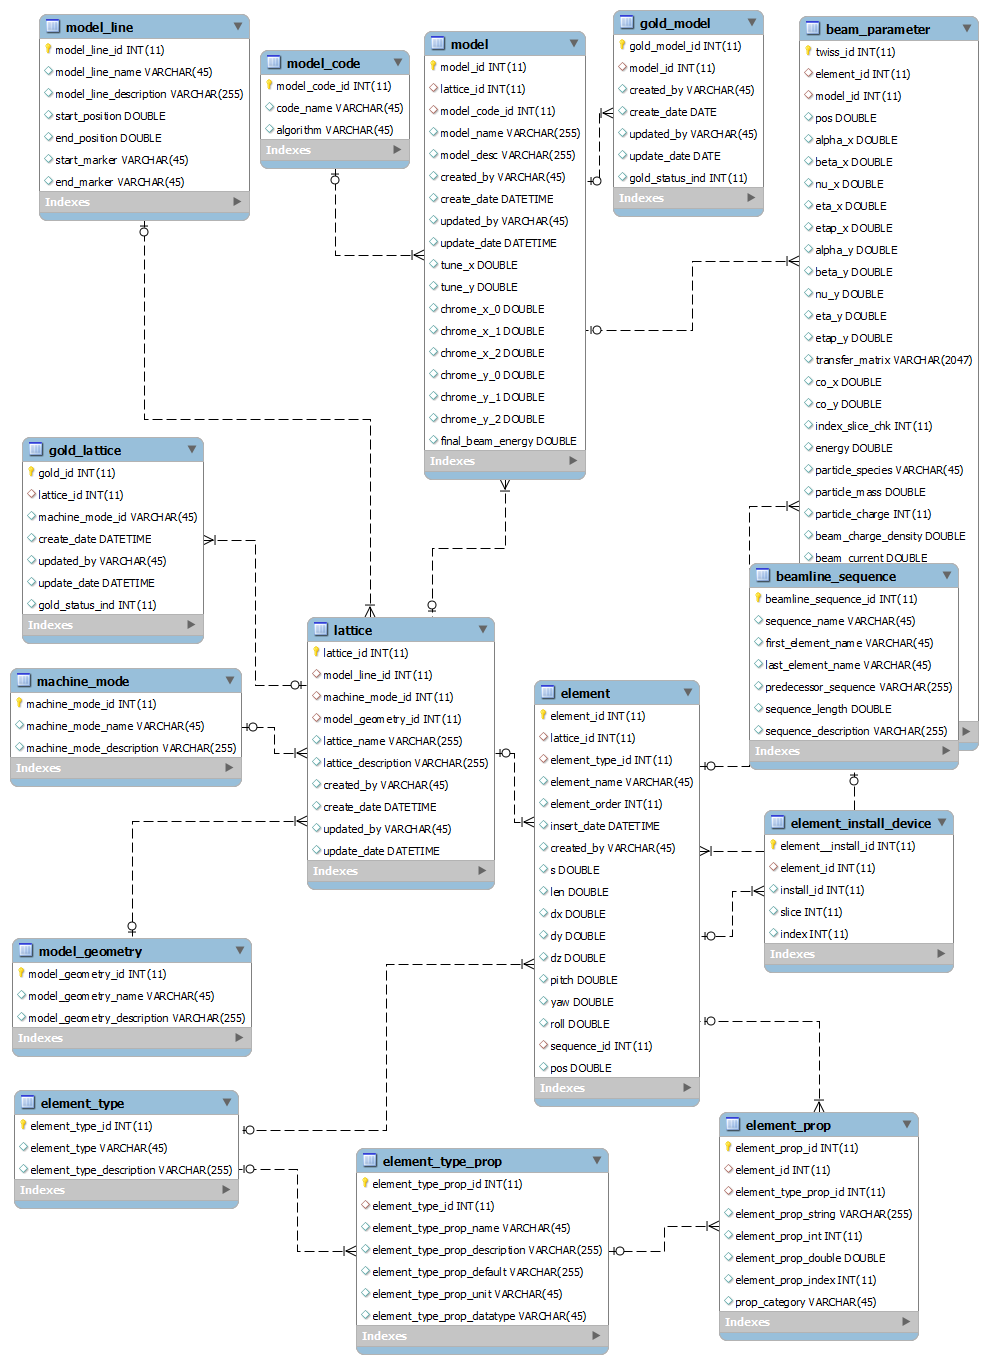
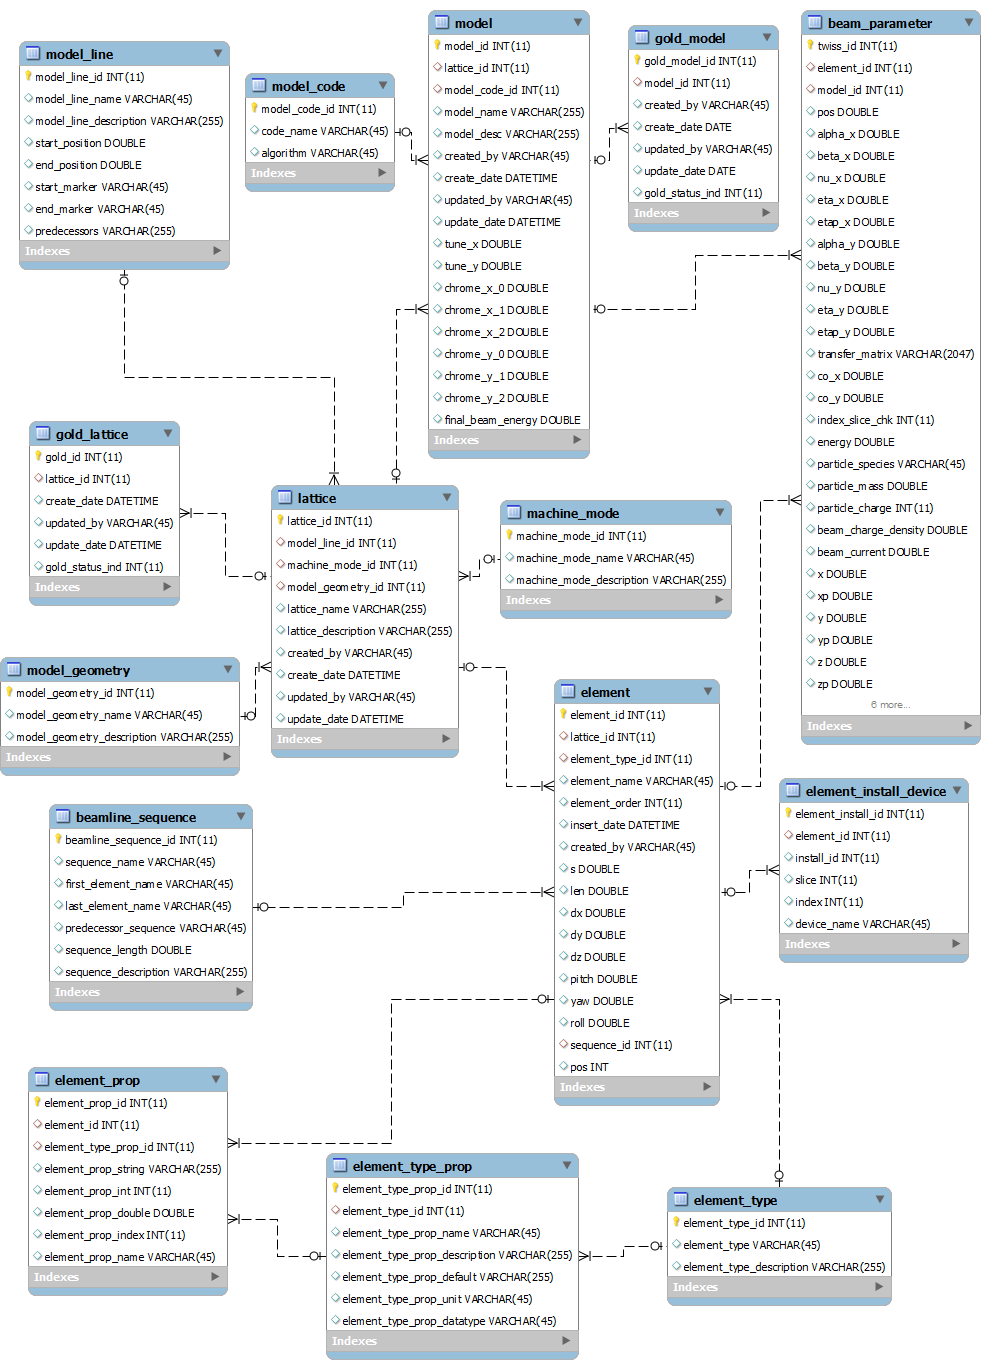
update

diff --git a/modelDB/src/edu/msu/frib/xal/db2xal/Db2Xal.java b/modelDB/src/edu/msu/frib/xal/db2xal/Db2Xal.java
@@ -5,13 +5,22 @@
 package edu.msu.frib.xal.db2xal;
 
 import java.util.Date;
+import java.util.HashMap;
 import java.util.Iterator;
 import java.util.List;
+import java.util.Map;
+import javax.persistence.EntityManager;
+import javax.persistence.EntityManagerFactory;
+import javax.persistence.Persistence;
+import javax.persistence.PersistenceContext;
+import javax.persistence.PersistenceUnit;
+import javax.persistence.Query;
 import org.openepics.model.api.BeamlineSequenceAPI;
 import org.openepics.model.api.ElementAPI;
 import org.openepics.model.api.ModelDB;
 import org.openepics.model.entity.BeamlineSequence;
 import org.openepics.model.entity.Element;
+import org.openepics.model.entity.ElementProp;
 import org.openepics.model.entity.ElementTypeProp;
 
 /**
@@ -19,7 +28,12 @@ import org.openepics.model.entity.ElementTypeProp;
  * @author chu
  */
 public class Db2Xal {
-    
+    @PersistenceUnit
+    static EntityManagerFactory emf = Persistence.createEntityManagerFactory("modelAPIPU");
+    EntityManager em = emf.createEntityManager();
+
+    @PersistenceContext
+        
     public void write2ModelParam() {
         
     }
@@ -104,7 +118,8 @@ public class Db2Xal {
                             e.getElementTypeId().getElementType().equals("QV") ||
                             e.getElementTypeId().getElementType().equals("DCH") ||
                             e.getElementTypeId().getElementType().equals("DCV") ||
-                            e.getElementTypeId().getElementType().equals("BPM") ) {
+                            e.getElementTypeId().getElementType().equals("BPM") ||
+                            e.getElementTypeId().getElementType().equals("RG")) {
                     sb.append("         <attributes>\n");
                     // for all magnets
                     if (e.getElementTypeId().getElementType().equals("DH") ||
@@ -113,6 +128,8 @@ public class Db2Xal {
                             e.getElementTypeId().getElementType().equals("QV") ||
                             e.getElementTypeId().getElementType().equals("DCH") ||
                             e.getElementTypeId().getElementType().equals("DCV") ) {
+                        Map attMap = getAttributesForElement(e.getElementName());
+                        
                         sb.append("            <magnet>\n");
                         
                         sb.append("            </magnet>\n");
@@ -129,7 +146,9 @@ public class Db2Xal {
         }
         
         // TODO for power supplies
+        sb.append("   <powersupplies>\n");
         
+        sb.append("   </powersupplies>\n");
         
         // close
         sb.append("</xdxf>");
@@ -137,8 +156,19 @@ public class Db2Xal {
         System.out.println(sb);
     }
     
-    private List getAttributesForElement(String elm) {
-        List atts = null;
+    private Map getAttributesForElement(String elm) {
+        HashMap<String, Object> atts = new HashMap<>();
+        
+        Query q;
+        q = em.createQuery("SELECT ep from ElementProp ep WHERE ep.elementId.elementName = :elementname")
+                .setParameter("elementname", elm);
+        List<ElementProp> attrList = q.getResultList();
+        
+        Iterator<ElementProp> it = attrList.iterator();
+        while (it.hasNext()) {
+            ElementProp ep = it.next();
+            atts.put(ep.getElementPropName(), ep.getElementPropDouble());
+        }
         
         return atts;
     }

diff --git a/modelDB/src/org/openepics/model/entity/ElementProp.java b/modelDB/src/org/openepics/model/entity/ElementProp.java
@@ -20,7 +20,7 @@ import javax.xml.bind.annotation.XmlRootElement;
 
 /**
  *
- * @author chu
+ * @author paul
  */
 @Entity
 @Table(name = "element_prop")
@@ -31,7 +31,9 @@ import javax.xml.bind.annotation.XmlRootElement;
     @NamedQuery(name = "ElementProp.findByElementPropString", query = "SELECT e FROM ElementProp e WHERE e.elementPropString = :elementPropString"),
     @NamedQuery(name = "ElementProp.findByElementPropInt", query = "SELECT e FROM ElementProp e WHERE e.elementPropInt = :elementPropInt"),
     @NamedQuery(name = "ElementProp.findByElementPropDouble", query = "SELECT e FROM ElementProp e WHERE e.elementPropDouble = :elementPropDouble"),
-    @NamedQuery(name = "ElementProp.findByElementPropIndex", query = "SELECT e FROM ElementProp e WHERE e.elementPropIndex = :elementPropIndex")})
+    @NamedQuery(name = "ElementProp.findByElementPropIndex", query = "SELECT e FROM ElementProp e WHERE e.elementPropIndex = :elementPropIndex"),
+    @NamedQuery(name = "ElementProp.findByPropCategory", query = "SELECT e FROM ElementProp e WHERE e.propCategory = :propCategory"),
+    @NamedQuery(name = "ElementProp.findByElementPropName", query = "SELECT e FROM ElementProp e WHERE e.elementPropName = :elementPropName")})
 public class ElementProp implements Serializable {
     private static final long serialVersionUID = 1L;
     @Id
@@ -48,6 +50,10 @@ public class ElementProp implements Serializable {
     private Double elementPropDouble;
     @Column(name = "element_prop_index")
     private Integer elementPropIndex;
+    @Column(name = "prop_category")
+    private String propCategory;
+    @Column(name = "element_prop_name")
+    private String elementPropName;
     @JoinColumn(name = "element_type_prop_id", referencedColumnName = "element_type_prop_id")
     @ManyToOne
     private ElementTypeProp elementTypePropId;
@@ -100,6 +106,22 @@ public class ElementProp implements Serializable {
 
     public void setElementPropIndex(Integer elementPropIndex) {
         this.elementPropIndex = elementPropIndex;
+    }
+
+    public String getPropCategory() {
+        return propCategory;
+    }
+
+    public void setPropCategory(String propCategory) {
+        this.propCategory = propCategory;
+    }
+
+    public String getElementPropName() {
+        return elementPropName;
+    }
+
+    public void setElementPropName(String elementPropName) {
+        this.elementPropName = elementPropName;
     }
 
     public ElementTypeProp getElementTypePropId() {

diff --git a/modelDB/src/org/openepics/model/api/ModelDB.java b/modelDB/src/org/openepics/model/api/ModelDB.java
@@ -4,20 +4,11 @@
  */
 package org.openepics.model.api;
 
-import java.util.Date;
 import java.util.Iterator;
 import java.util.List;
 import javax.persistence.*;
-import org.openepics.model.entity.BeamlineSequence;
-import org.openepics.model.entity.ElementType;
 import org.openepics.model.entity.ElementTypeProp;
-import org.openepics.model.entity.GoldLattice;
-import org.openepics.model.entity.Lattice;
-import org.openepics.model.entity.MachineMode;
 import org.openepics.model.entity.Model;
-import org.openepics.model.entity.ModelCode;
-import org.openepics.model.entity.ModelGeometry;
-import org.openepics.model.entity.ModelLine;
 
 /**
  *
